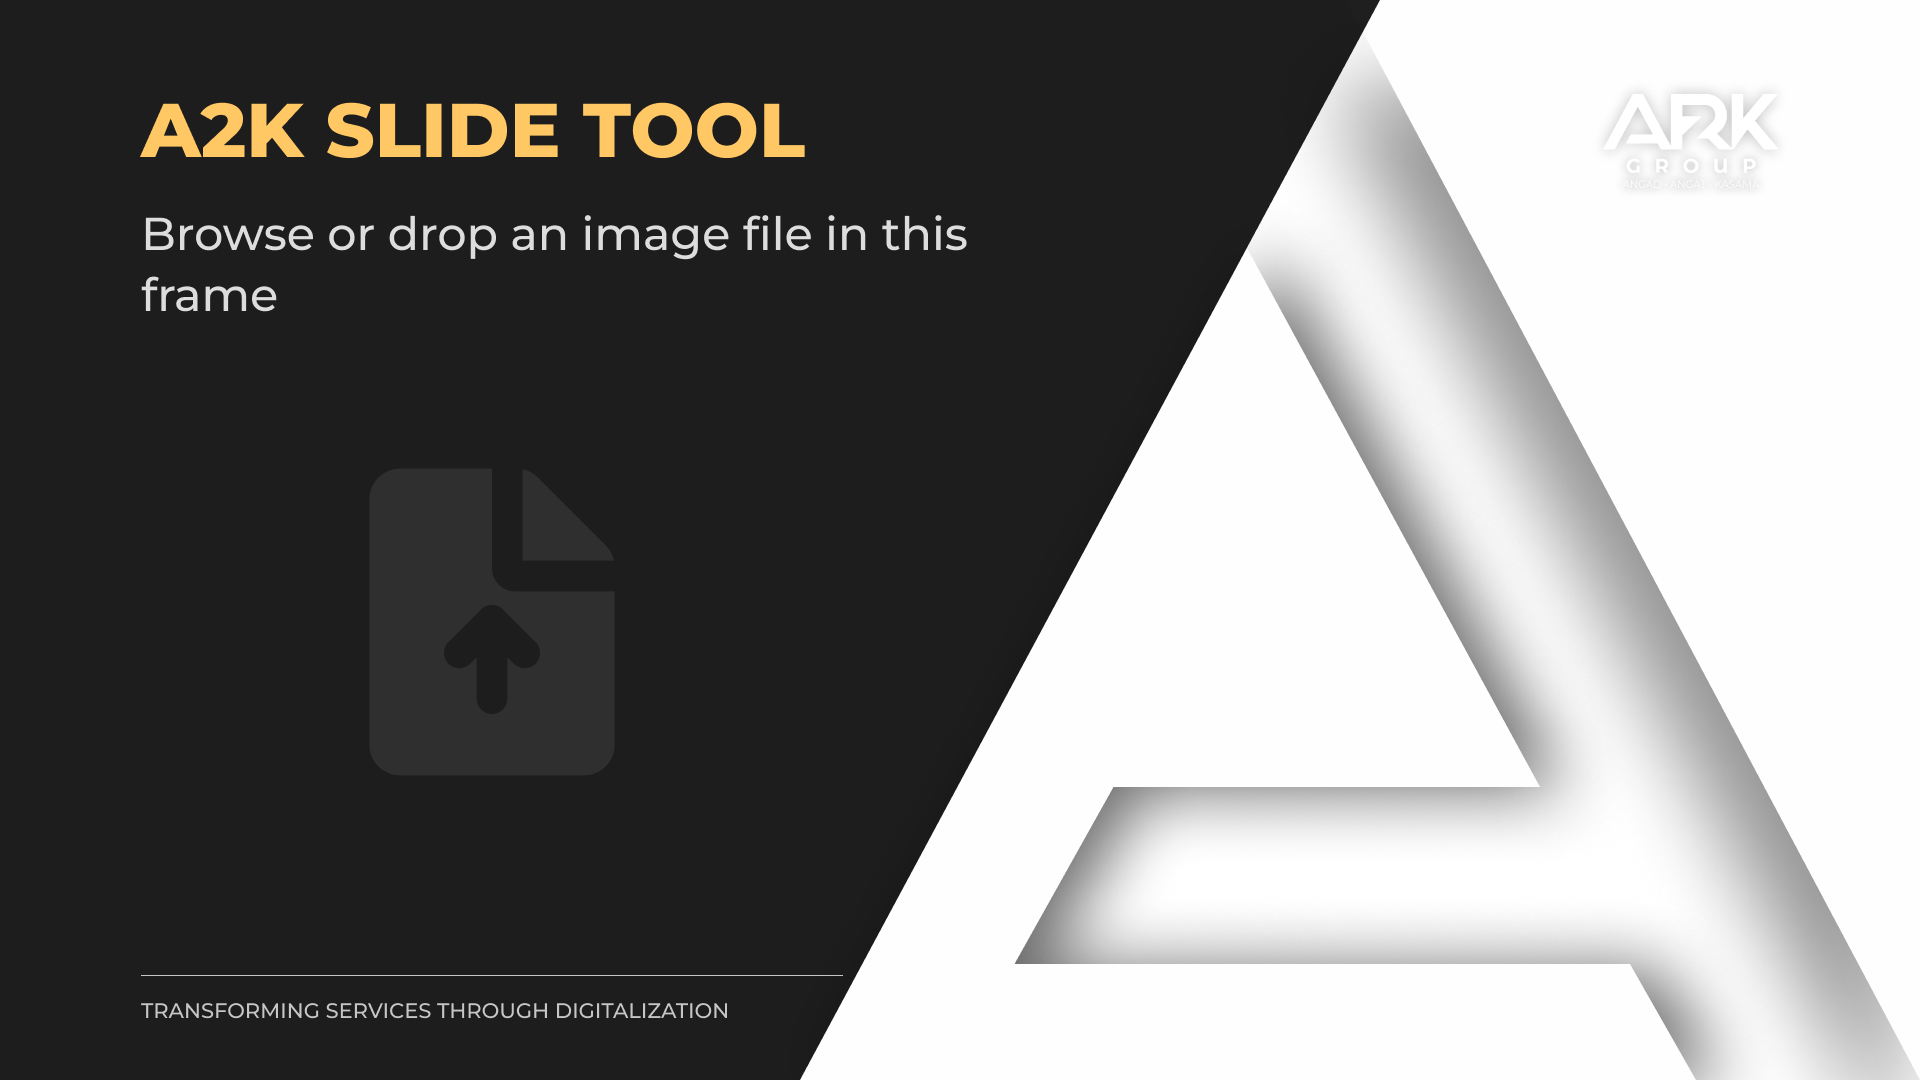
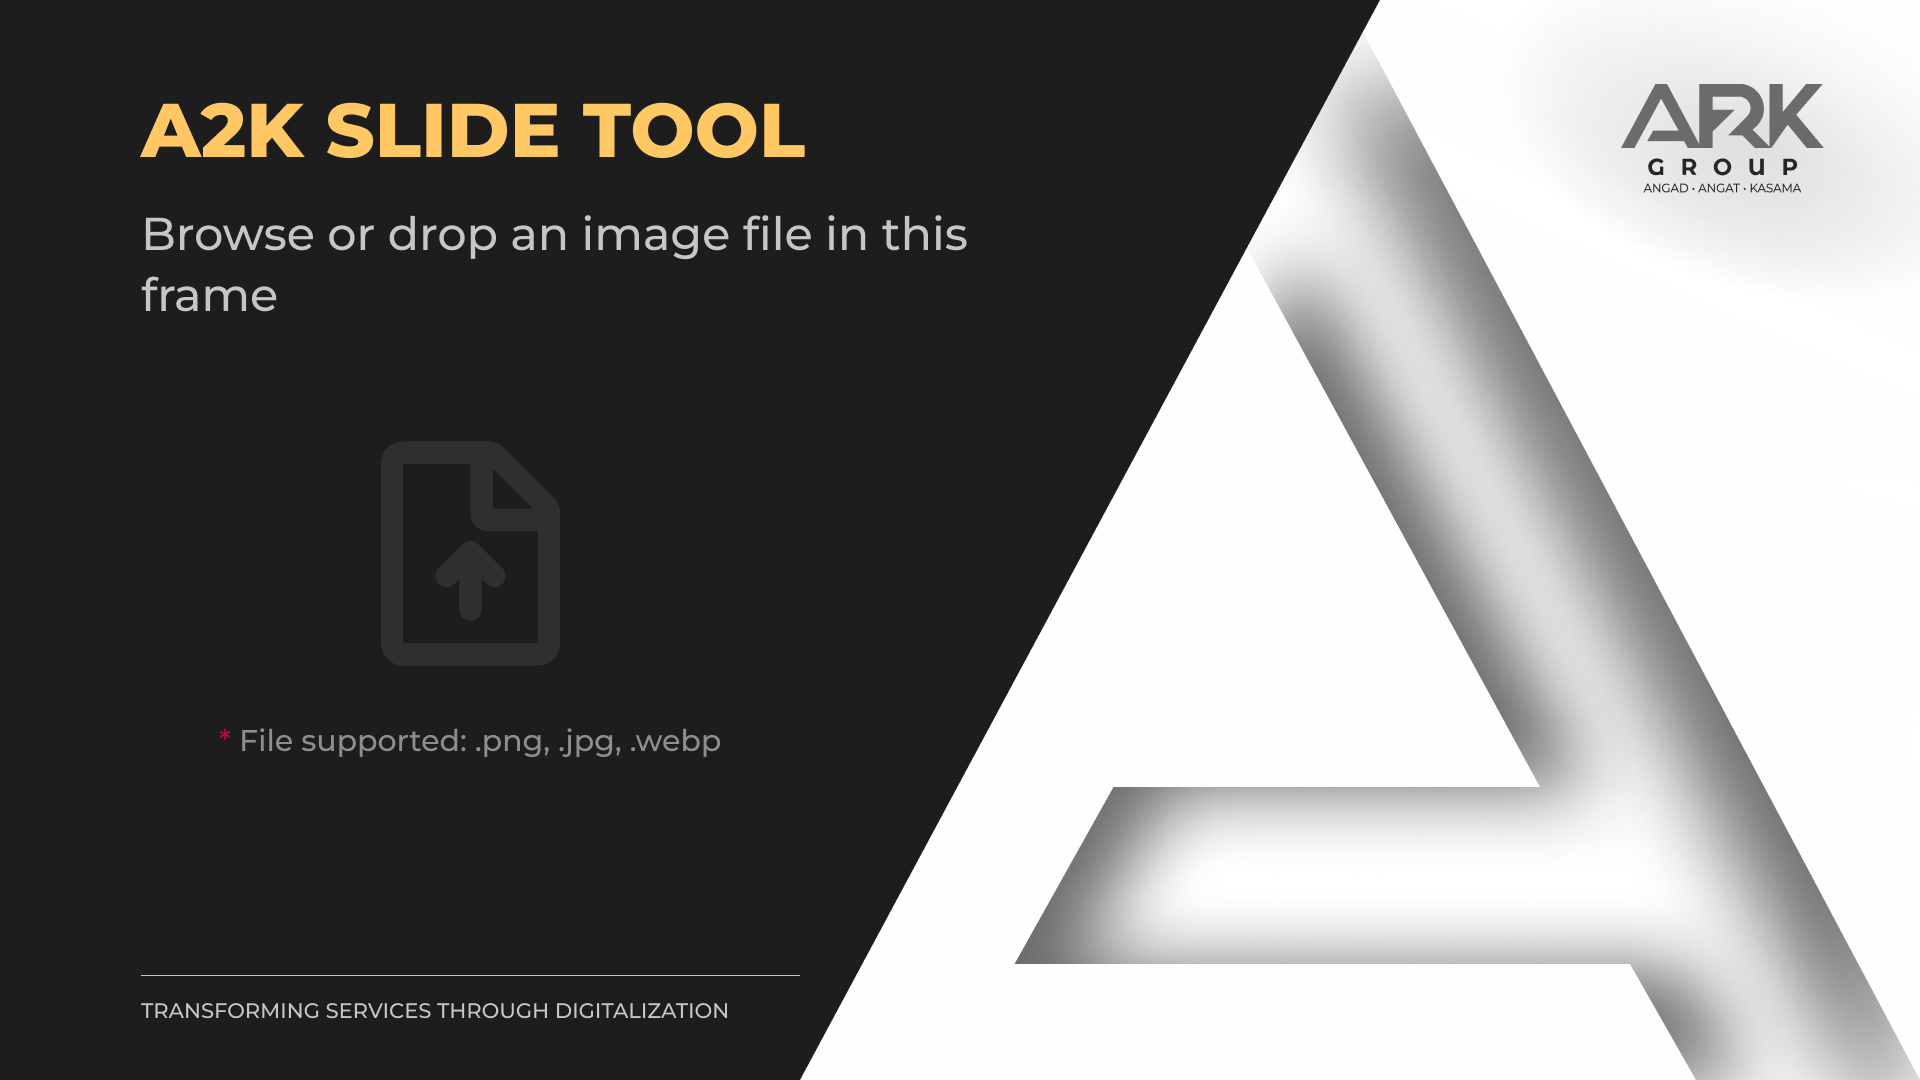
updated frame to latest layout.

diff --git a/style.css b/style.css
@@ -59,7 +59,7 @@ body {
     border-radius: 0.8rem;
     background-color: rgba(0, 0, 0, 0);
     background-image: url(./main_frame.png);
-    background-size: contain;
+    background-size: cover;
     background-repeat: no-repeat;
     /* margin-top: 1px; */
     /* margin-left: -4px; */
